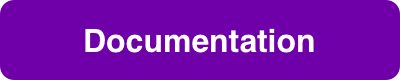
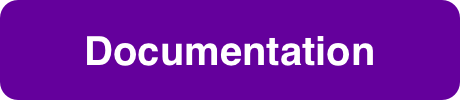
docs: add demo app link

diff --git a/docs/src/pages/index.tsx b/docs/src/pages/index.tsx
@@ -15,7 +15,10 @@ function HomepageHeader() {
         <h1 className="hero__title">{siteConfig.title}</h1>
         <p className="hero__subtitle">{siteConfig.tagline}</p>
         <div className={styles.buttons}>
-          <Link className="button button--secondary button--lg" to="/docs/guides/quick-start">
+          <Link className="button button--secondary button--lg" to="/docs">
+            Introduction
+          </Link>
+          <Link className="button button--secondary button--outline button--lg" to="/docs/guides/quick-start">
             Quick Start
           </Link>
         </div>

diff --git a/docs/src/css/custom.css b/docs/src/css/custom.css
@@ -62,3 +62,7 @@
   content: '+';
   color: #00ff00;
 }
+
+.hero .button.button--secondary.button--outline:not(.button--active):not(:hover) {
+  color: var(--ifm-heading-color);
+}

diff --git a/docs/src/pages/index.module.css b/docs/src/pages/index.module.css
@@ -21,3 +21,7 @@
   align-items: center;
   justify-content: center;
 }
+
+.buttons > a {
+  margin: 0 0.5em;
+}

diff --git a/README.md b/README.md
@@ -6,7 +6,8 @@
 Easy way to implement custom modals in your application via imperative API with TypeScript support. Alerts, Menus or anything you want.
 
 <p align="center">
-<a href="https://inferusvv.github.io/react-native-unicorn-modals/" target="_blank"><img src=".github/images/documentation.png" height="40" /></a>
+<a href="https://inferusvv.github.io/react-native-unicorn-modals/" target="_blank"><img src=".github/images/documentation.png" height="50" /></a>
+<a href="https://snack.expo.dev/@inferusvv/react-native-unicorn-modals" target="_blank"><img src=".github/images/demo-app.png" height="50" /></a>
 </p>
 
 > **Warning**
